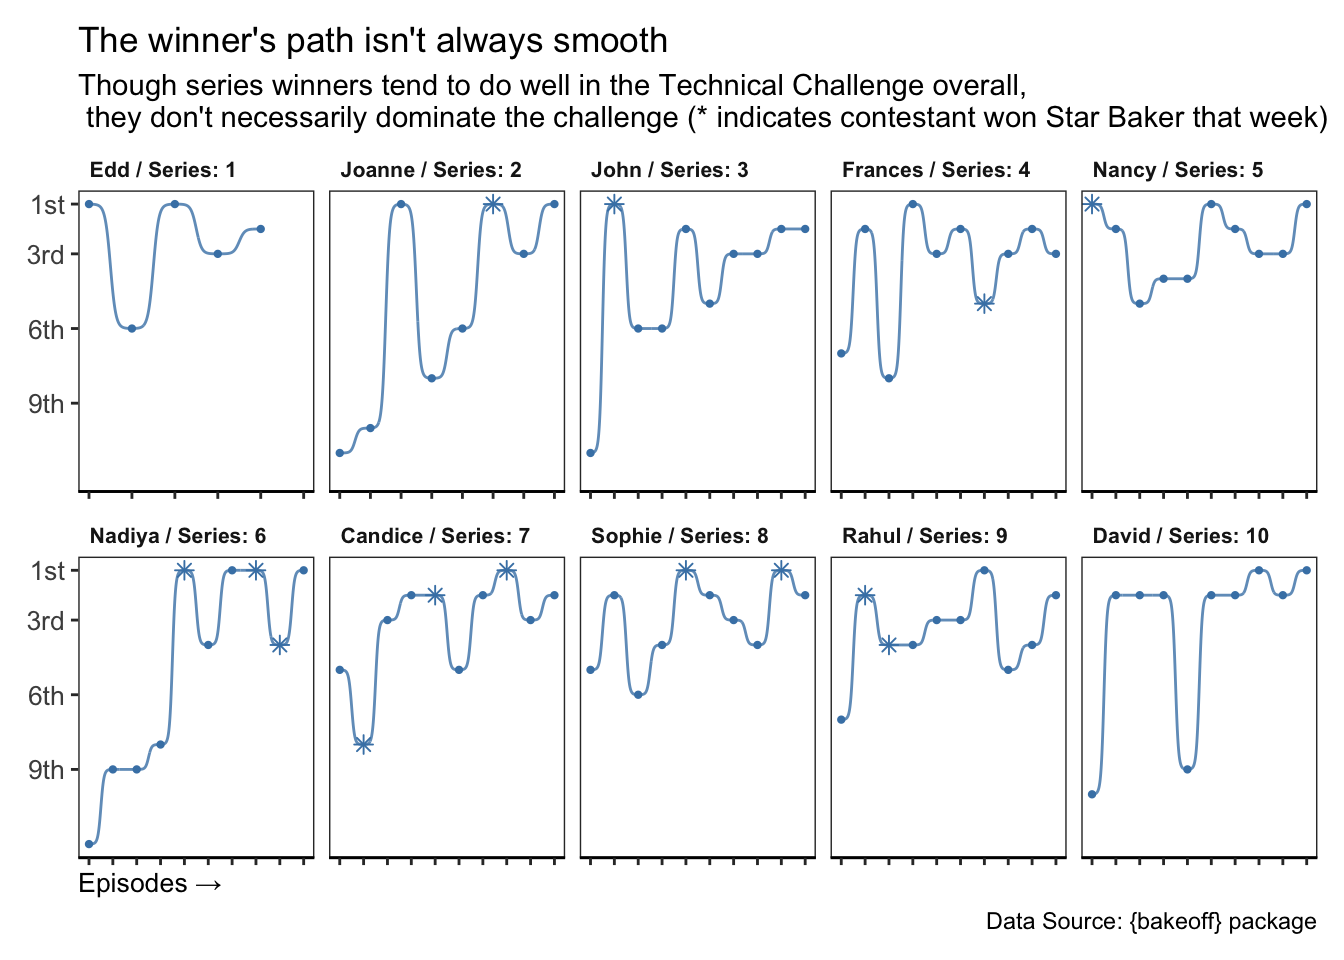
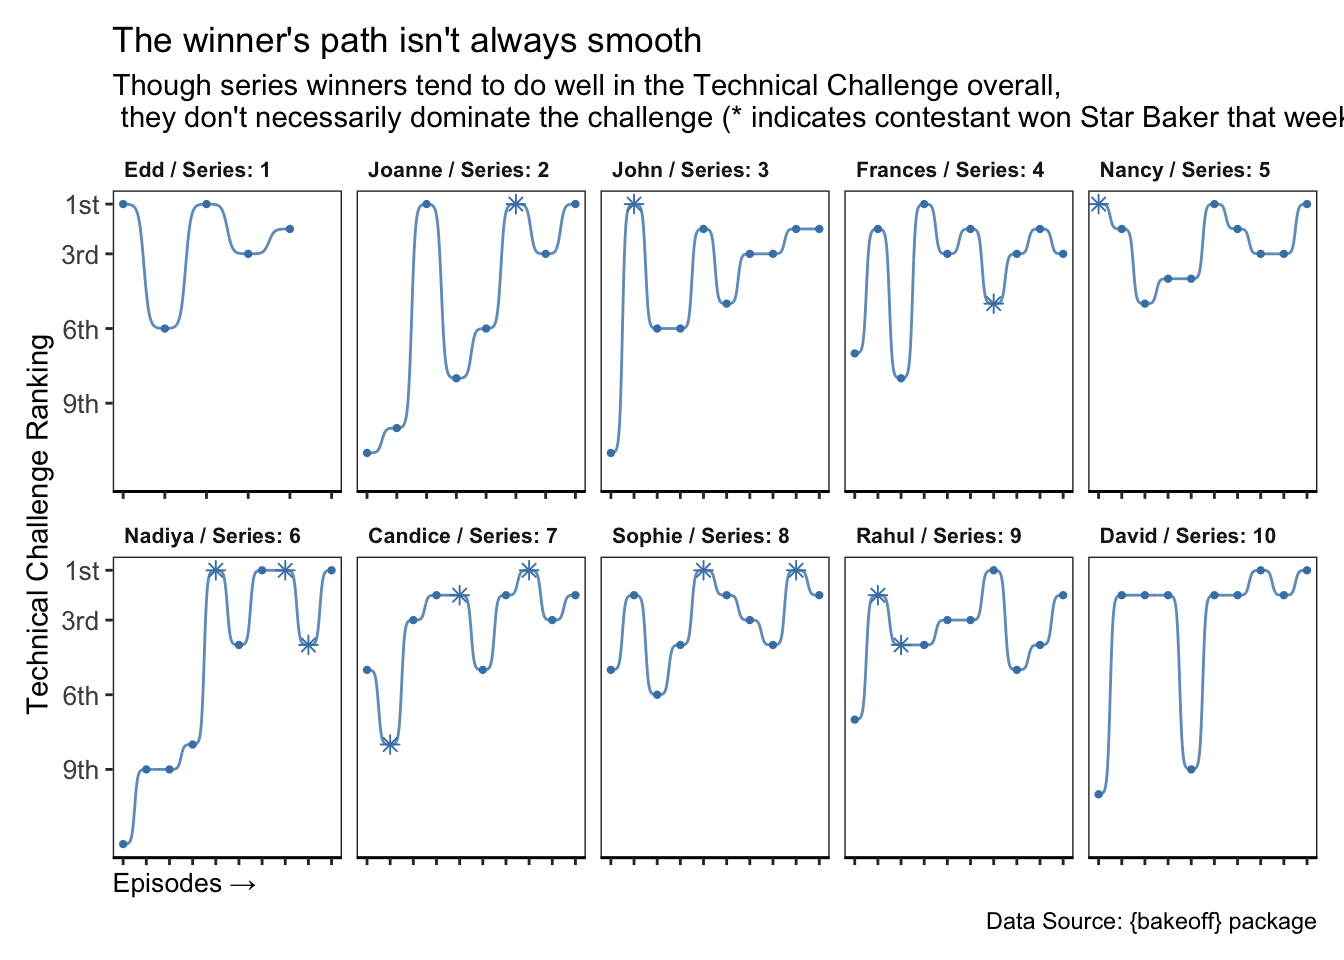
Built site for gh-pages

diff --git a/example-analysis.html b/example-analysis.html
@@ -7,7 +7,7 @@
 <meta name="viewport" content="width=device-width, initial-scale=1.0, user-scalable=yes">
 
 
-<title>Example Analysis: The Great British Bake Off – Part1_website</title>
+<title>Example Analysis: The Great British Bake Off – Nina Rajpurohit</title>
 <style>
 code{white-space: pre-wrap;}
 span.smallcaps{font-variant: small-caps;}
@@ -138,7 +138,7 @@ div.csl-indent {
     <a href="./index.html" class="navbar-brand navbar-brand-logo">
     </a>
     <a class="navbar-brand" href="./index.html">
-    <span class="navbar-title">Part1_website</span>
+    <span class="navbar-title">Nina Rajpurohit</span>
     </a>
   </div>
             <div id="quarto-search" class="" title="Search"></div>
@@ -445,7 +445,7 @@ $ showstopper &lt;chr&gt; "Red, White &amp; Blue Chocolate Cake with Cigarellos,
 <span id="cb8-43"><a href="#cb8-43" aria-hidden="true" tabindex="-1"></a>        <span class="at">axis.text.y =</span> <span class="fu">element_text</span>(<span class="at">size =</span> <span class="dv">10</span>, <span class="at">hjust =</span> <span class="dv">1</span>),</span>
 <span id="cb8-44"><a href="#cb8-44" aria-hidden="true" tabindex="-1"></a>        <span class="at">axis.text.x =</span> <span class="fu">element_blank</span>(),</span>
 <span id="cb8-45"><a href="#cb8-45" aria-hidden="true" tabindex="-1"></a>        <span class="at">axis.title.x =</span> <span class="fu">element_text</span>(<span class="at">size =</span> <span class="dv">10</span>, <span class="at">hjust =</span> <span class="dv">0</span>),</span>
-<span id="cb8-46"><a href="#cb8-46" aria-hidden="true" tabindex="-1"></a>        <span class="at">axis.title.y =</span> <span class="fu">element_blank</span>(),</span>
+<span id="cb8-46"><a href="#cb8-46" aria-hidden="true" tabindex="-1"></a>        <span class="co">#axis.title.y = element_blank(),</span></span>
 <span id="cb8-47"><a href="#cb8-47" aria-hidden="true" tabindex="-1"></a>        <span class="at">strip.background =</span> <span class="fu">element_blank</span>(),</span>
 <span id="cb8-48"><a href="#cb8-48" aria-hidden="true" tabindex="-1"></a>        <span class="at">strip.text =</span> <span class="fu">element_text</span>(<span class="at">size =</span> <span class="dv">8</span>, <span class="at">hjust =</span> <span class="dv">0</span>, <span class="at">face =</span> <span class="st">"bold"</span>),</span>
 <span id="cb8-49"><a href="#cb8-49" aria-hidden="true" tabindex="-1"></a>        <span class="at">panel.grid =</span> <span class="fu">element_blank</span>(),   </span>
@@ -464,10 +464,10 @@ $ showstopper &lt;chr&gt; "Red, White &amp; Blue Chocolate Cake with Cigarellos,
 <section id="q3-how-does-each-contestant-do-in-the-technical-challenge-across-their-series" class="level1 page-columns page-full">
 <h1>Q3: How does each contestant do in the Technical Challenge across their series?</h1>
 <p>Knowing that the winner doesn’t necessarily finish on top in this challenge every episode, we want to look at how other contestants, grouped by their series, do in the challenge as well.</p>
-<p>This plot is animated to show each contestants trajectory. While the series winner doesn’t always rank first, a last-place ranking often means the end of the journey, and elimination that week, for a contestant.</p>
+<p>This plot is animated to show each contestant’s trajectory, with a dot marking the “endpoint” of their time on the show. While the series winner doesn’t always rank first, a last-place ranking often means the end of the journey, and elimination that week, for a contestant.</p>
 
 <div class="no-row-height column-margin column-container"><div class="">
-<p>In Series 1 - Episode 1, BBC did not air the judges’ discussion of all the Technical Challenge rankings; viewers only learned the top 3 and bottom 3. For the Series 1 contestants that fell in the middle, our graph starts with their ranking in Episode 2.</p>
+<p>In Series 1 - Episode 1, BBC did not air the judges’ discussion of all the Technical Challenge rankings; viewers only learned the top 3 and bottom 3 contestants. For the Series 1 contestants that fell in the middle, our graph starts with their ranking for Episode 2.</p>
 </div></div><div class="cell">
 <details class="code-fold">
 <summary>Code</summary>
@@ -487,7 +487,7 @@ $ showstopper &lt;chr&gt; "Red, White &amp; Blue Chocolate Cake with Cigarellos,
 <span id="cb9-14"><a href="#cb9-14" aria-hidden="true" tabindex="-1"></a>  <span class="fu">facet_wrap</span>(<span class="sc">~</span>series, <span class="at">scales =</span> <span class="st">"free_x"</span>) <span class="sc">+</span></span>
 <span id="cb9-15"><a href="#cb9-15" aria-hidden="true" tabindex="-1"></a>  <span class="fu">labs</span>(</span>
 <span id="cb9-16"><a href="#cb9-16" aria-hidden="true" tabindex="-1"></a>    <span class="at">title =</span> <span class="st">"Technical challenge rankings for all contestants, by series"</span>,</span>
-<span id="cb9-17"><a href="#cb9-17" aria-hidden="true" tabindex="-1"></a>    <span class="at">subtitle =</span> <span class="st">"Though it is one of 3 challenges, a last place finish in the Technical Challenge often means</span><span class="sc">\n</span><span class="st"> elimination that week"</span>,</span>
+<span id="cb9-17"><a href="#cb9-17" aria-hidden="true" tabindex="-1"></a>    <span class="at">subtitle =</span> <span class="st">"A last place finish in the Technical Challenge often means elimination that week"</span>,</span>
 <span id="cb9-18"><a href="#cb9-18" aria-hidden="true" tabindex="-1"></a>    <span class="at">caption  =</span> <span class="st">"Data Source: {bakeoff} package"</span>,</span>
 <span id="cb9-19"><a href="#cb9-19" aria-hidden="true" tabindex="-1"></a>    <span class="at">x =</span> <span class="st">"Episodes →"</span>,</span>
 <span id="cb9-20"><a href="#cb9-20" aria-hidden="true" tabindex="-1"></a>    <span class="at">y =</span> <span class="st">"Technical Challenge Ranking"</span></span>
@@ -496,48 +496,6 @@ $ showstopper &lt;chr&gt; "Red, White &amp; Blue Chocolate Cake with Cigarellos,
 <span id="cb9-23"><a href="#cb9-23" aria-hidden="true" tabindex="-1"></a>  <span class="fu">theme</span>(<span class="at">legend.position =</span> <span class="st">"none"</span>, <span class="at">axis.title.x =</span> <span class="fu">element_text</span>(<span class="at">size =</span> <span class="dv">10</span>, <span class="at">hjust =</span> <span class="dv">0</span>)) <span class="sc">+</span></span>
 <span id="cb9-24"><a href="#cb9-24" aria-hidden="true" tabindex="-1"></a>  <span class="fu">transition_reveal</span>(<span class="at">along=</span>episode)</span></code></pre></div><button title="Copy to Clipboard" class="code-copy-button"><i class="bi"></i></button></div>
 </details>
-<div class="cell-output cell-output-stderr">
-<pre><code>`geom_line()`: Each group consists of only one observation.
-ℹ Do you need to adjust the group aesthetic?
-`geom_line()`: Each group consists of only one observation.
-ℹ Do you need to adjust the group aesthetic?
-`geom_line()`: Each group consists of only one observation.
-ℹ Do you need to adjust the group aesthetic?
-`geom_line()`: Each group consists of only one observation.
-ℹ Do you need to adjust the group aesthetic?
-`geom_line()`: Each group consists of only one observation.
-ℹ Do you need to adjust the group aesthetic?
-`geom_line()`: Each group consists of only one observation.
-ℹ Do you need to adjust the group aesthetic?
-`geom_line()`: Each group consists of only one observation.
-ℹ Do you need to adjust the group aesthetic?
-`geom_line()`: Each group consists of only one observation.
-ℹ Do you need to adjust the group aesthetic?
-`geom_line()`: Each group consists of only one observation.
-ℹ Do you need to adjust the group aesthetic?
-`geom_line()`: Each group consists of only one observation.
-ℹ Do you need to adjust the group aesthetic?
-`geom_line()`: Each group consists of only one observation.
-ℹ Do you need to adjust the group aesthetic?
-`geom_line()`: Each group consists of only one observation.
-ℹ Do you need to adjust the group aesthetic?
-`geom_line()`: Each group consists of only one observation.
-ℹ Do you need to adjust the group aesthetic?
-`geom_line()`: Each group consists of only one observation.
-ℹ Do you need to adjust the group aesthetic?
-`geom_line()`: Each group consists of only one observation.
-ℹ Do you need to adjust the group aesthetic?
-`geom_line()`: Each group consists of only one observation.
-ℹ Do you need to adjust the group aesthetic?
-`geom_line()`: Each group consists of only one observation.
-ℹ Do you need to adjust the group aesthetic?
-`geom_line()`: Each group consists of only one observation.
-ℹ Do you need to adjust the group aesthetic?
-`geom_line()`: Each group consists of only one observation.
-ℹ Do you need to adjust the group aesthetic?
-`geom_line()`: Each group consists of only one observation.
-ℹ Do you need to adjust the group aesthetic?</code></pre>
-</div>
 <div class="cell-output-display">
 <div>
 <figure class="figure">
@@ -563,8 +521,8 @@ $ showstopper &lt;chr&gt; "Red, White &amp; Blue Chocolate Cake with Cigarellos,
 <div class="cell">
 <details class="code-fold">
 <summary>Code</summary>
-<div class="code-copy-outer-scaffold"><div class="sourceCode cell-code" id="cb11"><pre class="sourceCode r code-with-copy"><code class="sourceCode r"><span id="cb11-1"><a href="#cb11-1" aria-hidden="true" tabindex="-1"></a><span class="fu">options</span>(<span class="at">width =</span> <span class="dv">120</span>)</span>
-<span id="cb11-2"><a href="#cb11-2" aria-hidden="true" tabindex="-1"></a>sessioninfo<span class="sc">::</span><span class="fu">session_info</span>()</span></code></pre></div><button title="Copy to Clipboard" class="code-copy-button"><i class="bi"></i></button></div>
+<div class="code-copy-outer-scaffold"><div class="sourceCode cell-code" id="cb10"><pre class="sourceCode r code-with-copy"><code class="sourceCode r"><span id="cb10-1"><a href="#cb10-1" aria-hidden="true" tabindex="-1"></a><span class="fu">options</span>(<span class="at">width =</span> <span class="dv">120</span>)</span>
+<span id="cb10-2"><a href="#cb10-2" aria-hidden="true" tabindex="-1"></a>sessioninfo<span class="sc">::</span><span class="fu">session_info</span>()</span></code></pre></div><button title="Copy to Clipboard" class="code-copy-button"><i class="bi"></i></button></div>
 </details>
 <div class="cell-output cell-output-stdout">
 <pre><code>─ Session info ───────────────────────────────────────────────────────────────────────────────────────────────────────

diff --git a/about.html b/about.html
@@ -7,7 +7,7 @@
 <meta name="viewport" content="width=device-width, initial-scale=1.0, user-scalable=yes">
 
 
-<title>About – Part1_website</title>
+<title>About – Nina Rajpurohit</title>
 <style>
 code{white-space: pre-wrap;}
 span.smallcaps{font-variant: small-caps;}
@@ -83,7 +83,7 @@ ul.task-list li input[type="checkbox"] {
     <a href="./index.html" class="navbar-brand navbar-brand-logo">
     </a>
     <a class="navbar-brand" href="./index.html">
-    <span class="navbar-title">Part1_website</span>
+    <span class="navbar-title">Nina Rajpurohit</span>
     </a>
   </div>
             <div id="quarto-search" class="" title="Search"></div>

diff --git a/index.html b/index.html
@@ -7,7 +7,7 @@
 <meta name="viewport" content="width=device-width, initial-scale=1.0, user-scalable=yes">
 
 
-<title>Home – Part1_website</title>
+<title>Home – Nina Rajpurohit</title>
 <style>
 code{white-space: pre-wrap;}
 span.smallcaps{font-variant: small-caps;}
@@ -83,7 +83,7 @@ ul.task-list li input[type="checkbox"] {
     <a href="./index.html" class="navbar-brand navbar-brand-logo">
     </a>
     <a class="navbar-brand" href="./index.html">
-    <span class="navbar-title">Part1_website</span>
+    <span class="navbar-title">Nina Rajpurohit</span>
     </a>
   </div>
             <div id="quarto-search" class="" title="Search"></div>
